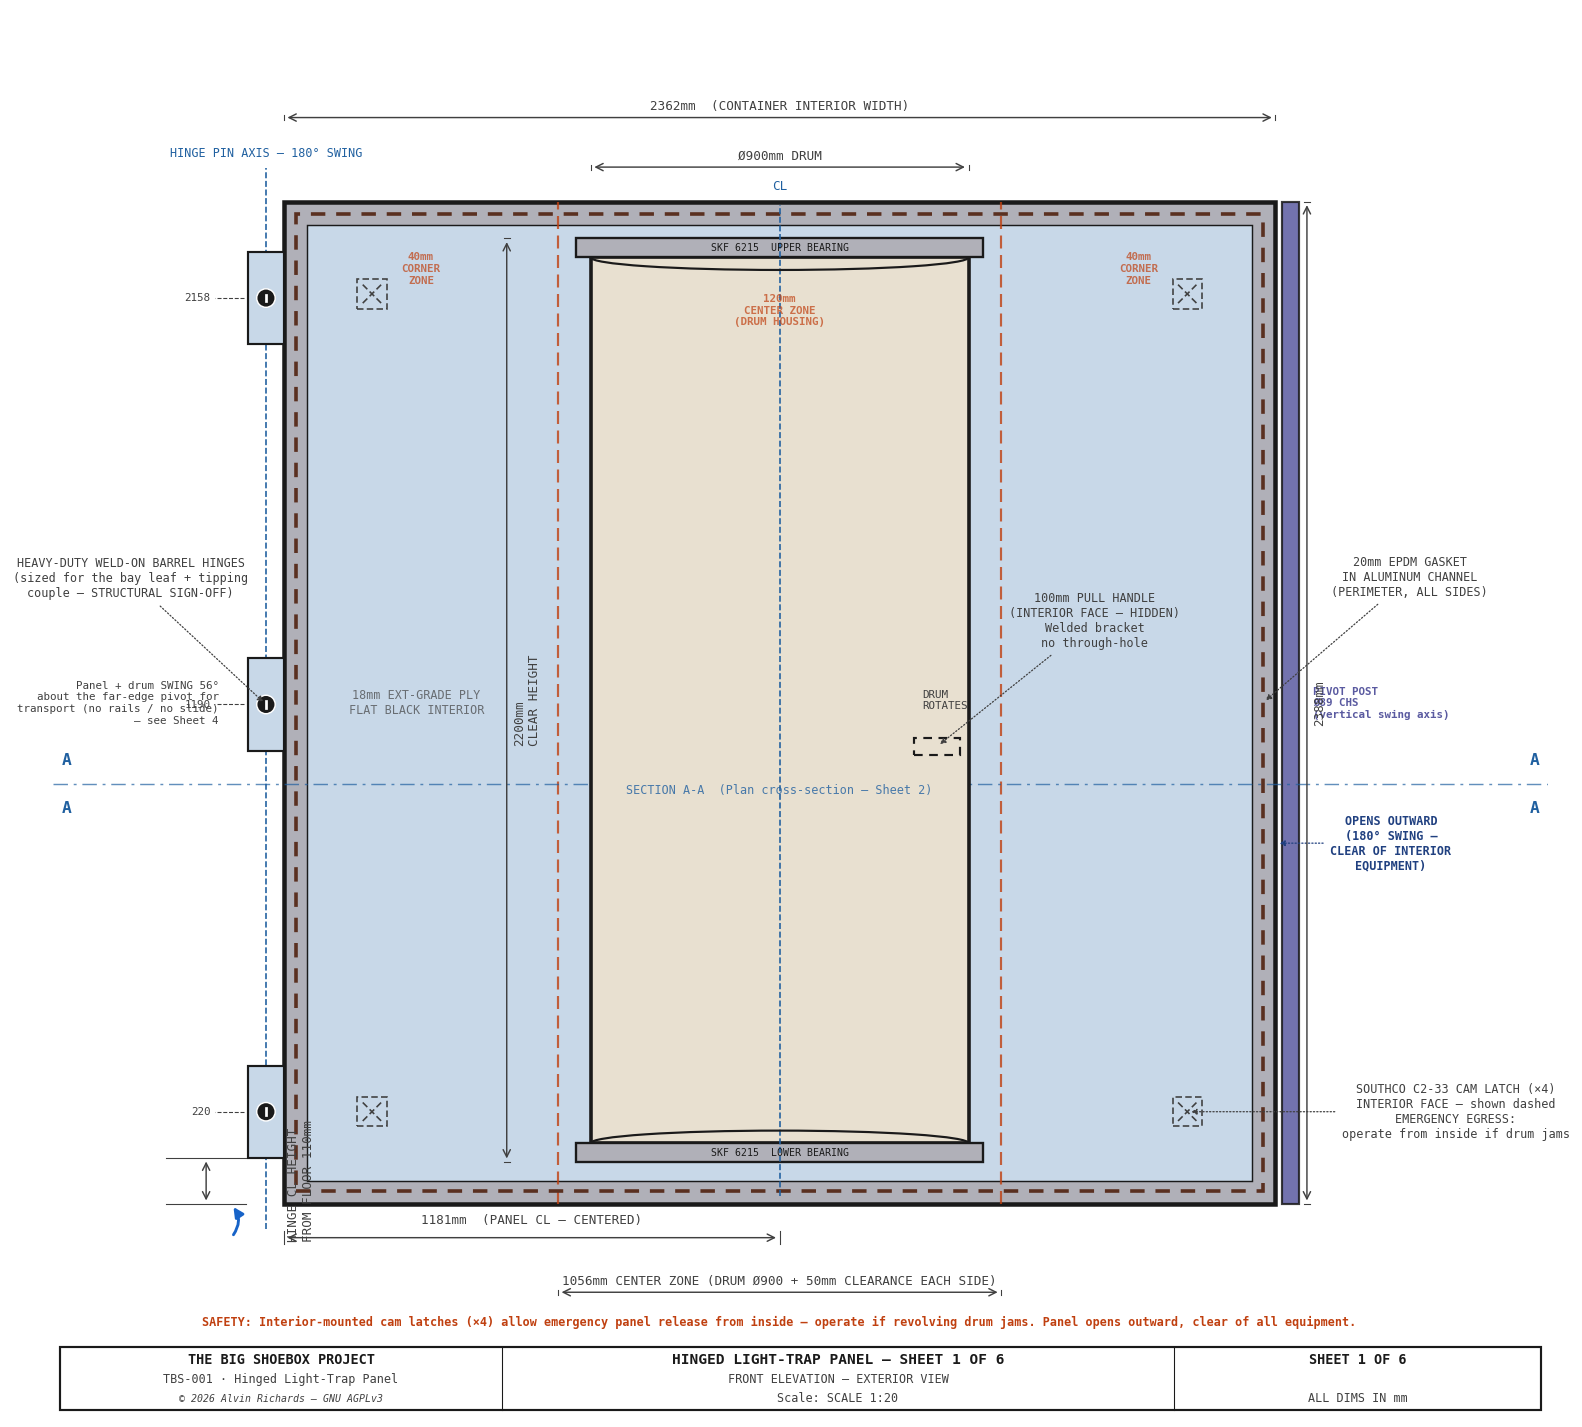
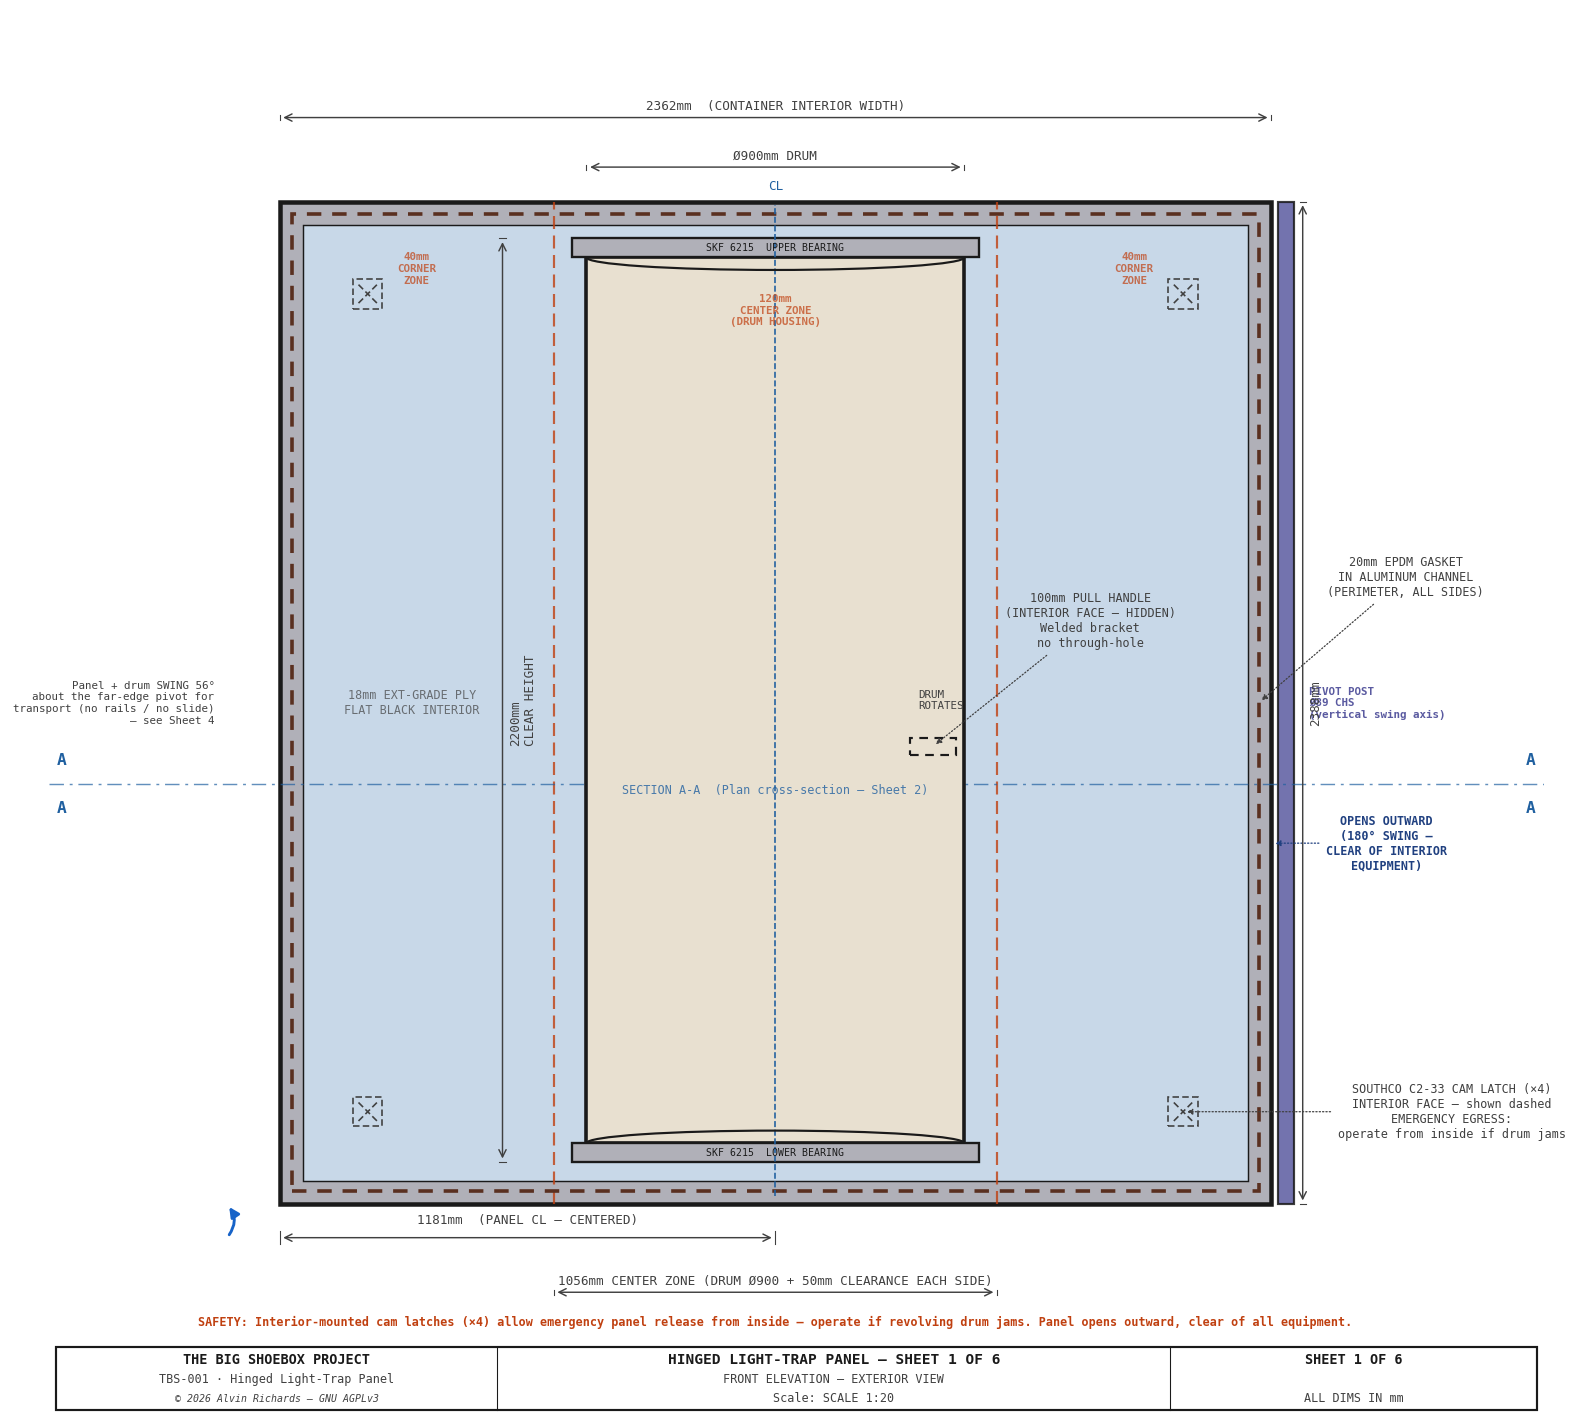
Cascade Stage 2 (hingepanel): sheets 1-3 slide->swing
Sheet 1: retire the barrel hinges (geometry + dims) — panel pivots on the post. Sheet 2:
the right-edge slide guide rail -> the Ø89 pivot post (recolored + relabeled); near edge
relabeled 'swings free'. Sheet 3: the HGR20 floor/ceiling slide rails + slide-travel arrow
-> retired/swing notes; 'release to slide'->'release to swing'; 'hangs below ceiling rails'
-> 'carried by the pivot post'. Sheet 6 (transport-slide-clearance) still to repurpose.

diff --git a/src/generators/generate_hingepanel_diagram.py b/src/generators/generate_hingepanel_diagram.py
@@ -198,27 +198,11 @@ def sheet1():
     leader(ax, (hx_handle + HW / 2, HY), (DX + DRUM_D + 300, HY + 300),
            "100mm PULL HANDLE\n(INTERIOR FACE — HIDDEN)\nWelded bracket\nno through-hole")
 
-    # ── Hinges (3 × left edge from exterior view) ────────────────────────────
+    # ── (rev10: the left-edge barrel hinges are RETIRED — the panel pivots on the
+    #    Ø89 post at the FAR edge, not on left-edge hinges. The HINGE_* values are kept
+    #    only as left-edge layout references for the swing note + dimension positions.) ──
     HINGE_YS = [220, 1190, PH - 230]
     HINGE_W = 85; HINGE_L = 220
-    for hy in HINGE_YS:
-        # Hinge leaf (exterior face)
-        ax.add_patch(Rectangle((-HINGE_W, hy - HINGE_L // 2), HINGE_W, HINGE_L,
-                                fc=C_ALUM, ec=C_OUT, lw=1.2, zorder=6))
-        ax.add_patch(Circle((-HINGE_W / 2, hy), 22, fc=C_OUT, ec=BG, lw=0.8, zorder=7))
-        # Extension line to hinge pin axis
-        ax.plot([-HINGE_W / 2, -HINGE_W / 2], [hy - 8, hy + 8],
-                color=BG, lw=1.5, zorder=8)
-
-    # Hinge pin axis line
-    ax.plot([-HINGE_W / 2, -HINGE_W / 2], [-60, PH + 80],
-            color=C_CL, lw=0.9, ls="--", zorder=4)
-    ax.text(-HINGE_W / 2, PH + 100, "HINGE PIN AXIS — 180° SWING",
-            color=C_CL, fontsize=6.5, ha="center", va="bottom", **FONT, zorder=15)
-
-    leader(ax, (-HINGE_W / 2, HINGE_YS[1]),
-           (-HINGE_W - 280, HINGE_YS[1] + 300),
-           "HEAVY-DUTY WELD-ON BARREL HINGES\n(sized for the bay leaf + tipping\ncouple — STRUCTURAL SIGN-OFF)")
 
     # ── Sliding carriage system ─────────────────────────────────────────────
     # The entire panel slides 300mm in the X direction (into the container)
@@ -315,14 +299,7 @@ def sheet1():
     dim_v(ax, DX - 200, DY_BOT, DY_TOP, f"{DRUM_H}mm\nCLEAR HEIGHT", offset=25)
     # Drum center from left
     dim_h(ax, 0, DRUM_CX, DY_BOT - 180, f"{int(DRUM_CX)}mm  (PANEL CL — CENTERED)", offset=-50)
-    # Hinge positions from floor
-    for hy in HINGE_YS:
-        ax.plot([-HINGE_W - 10, -HINGE_W - 80], [hy, hy],
-                color=C_DIM, lw=0.6, ls="--", zorder=3)
-        ax.text(-HINGE_W - 90, hy, f"{hy}", color=C_DIM, fontsize=6,
-                ha="right", va="center", **FONT, zorder=15)
-    hinge_2_flr = round(HINGE_YS[0] - HINGE_L/2)
-    dim_v(ax, -HINGE_W - 100, hinge_2_flr, HINGE_YS[0] - HINGE_L, f"HINGE CL HEIGHT\nFROM FLOOR {hinge_2_flr}mm", offset=-320)
+    # (hinge-position dims retired with the barrel hinges — the panel pivots on the post.)
 
 #     ax.text(-HINGE_W - 80, 90, "HINGE CL HEIGHT\nFROM FLOOR (mm)",
 #             color=C_DIM, fontsize=6, ha="right", va="top", **FONT, zorder=15)
@@ -555,15 +532,15 @@ def sheet2():
 
     leader(ax, (rail_left_x + RAIL_W / 2, Y0_W + WALL_T / 2),
            (rail_left_x - 200, Y_LO + 160),
-           "HGR20 RAIL\n(FLOOR/CEILING)\n500mm X-TRAVEL", col=C_RAIL, fs=6)
+           "NEAR EDGE — swings free\n(rev10: no slide rail;\npanel pivots at the far edge)", col=C_DIM, fs=6)
     leader(ax, (rail_left_x + CBEAM / 2, Y0_PL + CORNER_T / 2),
            (rail_left_x - 200, Y_HI - 80),
            "CARRIAGE BEAM\n60×60mm SHS\n+ BRUSH SEAL", col=C_CARR, fs=6)
 
-    # RIGHT SIDE — guide rail + carriage blocks (no separate beam)
+    # RIGHT (far) edge — the vertical PIVOT POST (rev10: replaces the slide guide rail)
     rail_right_x = PW + 60
     ax.add_patch(Rectangle((rail_right_x, -20), RAIL_W, WALL_T + PT + 40,
-                            fc=C_RAIL, ec=C_OUT, lw=0.8, alpha=0.6, zorder=5))
+                            fc="#5A5AA0", ec=C_OUT, lw=0.8, alpha=0.85, zorder=5))
     # Brush seal strip (right slot)
     ax.add_patch(Rectangle((PW - brush_w, Y0_W), brush_w, Y1_PL2 - Y0_W,
                             fc="#806040", ec=C_OUT, lw=0.5, zorder=6, alpha=0.8))
@@ -572,7 +549,7 @@ def sheet2():
 
     leader(ax, (rail_right_x + RAIL_W / 2, Y0_W + WALL_T / 2),
            (rail_right_x + 200, Y_LO + 160),
-           "HGR20 RAIL\n(FLOOR/CEILING)\n500mm X-TRAVEL", col=C_RAIL, fs=6)
+           "PIVOT POST Ø89 CHS\n(vertical swing axis —\nno slide rail)", col="#5A5AA0", fs=6)
     leader(ax, (PW + brush_w / 2, Y0_PL + PT / 2),
            (rail_right_x + 200, Y_HI - 80),
            "GUIDE SLOT\n+ BRUSH SEAL\n(DOUBLED NYLON)", col=C_CARR, fs=6)
@@ -942,24 +919,18 @@ def sheet3():
                                 RAIL_BLOCK_L, RAIL_BLOCK_H,
                                 fc=C_RAIL_S3, ec=C_OUT, lw=0.6, alpha=0.4, zorder=4))
 
-    # Rail labels — placed well clear of dimension lines below
+    # Rail labels (rev10: the floor/ceiling HGR20 slide rails are RETIRED — the panel
+    # pivots on the Ø89 post; the rail profiles above are shown faint as the old route).
     leader(ax, (RAIL_FLOOR_X + RAIL_PROF_L, RAIL_FLOOR_Y + RAIL_PROF_H / 2),
            (RAIL_FLOOR_X + RAIL_PROF_L + 200, RAIL_FLOOR_Y - 130),
-           "HGR20 FLOOR RAIL\n(BOTH WALLS, 500mm)",
-           col=C_RAIL_S3, fs=5.5)
-    leader(ax, (RAIL_FLOOR_X + RAIL_PROF_L, H_CEILING - RAIL_PROF_H / 2),
-           (RAIL_FLOOR_X + RAIL_PROF_L + 130, H_CEILING + 50),
-           "HGR20 CEILING RAIL\n(BOTH WALLS, 500mm)",
-           col=C_RAIL_S3, fs=5.5)
+           "(former HGR20 slide rails —\nRETIRED; panel now SWINGS\nabout the Ø89 pivot post)",
+           col=C_DIM, fs=5.5)
 
-    # Slide travel arrow (below overhang dimensions, clear of title block)
+    # Swing note (replaces the old slide-travel arrow)
     ARROW_Y = RAIL_FLOOR_Y - 160
-    ax.annotate("", xy=(Y0_W, ARROW_Y), xytext=(Y0_W + SLIDE_TRAVEL, ARROW_Y),
-                arrowprops=dict(arrowstyle="<->", color=C_RAIL_S3, lw=1.0,
-                                mutation_scale=8), zorder=9)
-    ax.text(Y0_W + SLIDE_TRAVEL / 2, ARROW_Y - 15,
-            f"{SLIDE_TRAVEL}mm SLIDE TRAVEL", ha="center", va="top",
-            fontsize=5.5, color=C_RAIL_S3, **FONT, zorder=15)
+    ax.text(Y0_W + 300, ARROW_Y - 15, "PANEL SWINGS 56° ABOUT THE PIVOT (no slide) — see Sheet 4",
+            ha="center", va="top", fontsize=5.5, color="#1763C8",
+            fontweight="bold", **FONT, zorder=15)
 
     # ── Lower bearing housing ─────────────────────────────────────────────────
     ax.add_patch(plt.Rectangle((D_DEPTH_L - 35, H_BRG_BOT),
@@ -1186,7 +1157,7 @@ def sheet3():
                     arrowprops=dict(arrowstyle="-", color=C_DIM, lw=0.8,
                                     shrinkA=1, shrinkB=1), zorder=24)
         ax.text(tx, ty, text, fontsize=6.0, color=C_DIM, ha="left", va="center", **FONT)
-    dlbl((DX(20), DY(165)), DY(172), "Cam latch compresses panel\nonto seal (release to slide)")
+    dlbl((DX(20), DY(165)), DY(172), "Cam latch compresses panel\nonto seal (release to swing)")
     dlbl((DX(20), DY(120)), DY(138), "Panel bottom edge\n(40 mm corner zone)")
     dlbl((DX(-10), DY(100)), DY(108), "20 mm EPDM — panel\nrecedes into / seals on lip")
     dlbl((DX(-26), DY(64)), DY(74), "Frame seal lip — steel upstand\nfrom threshold (notched at drum)")
@@ -1251,7 +1222,7 @@ def sheet3():
                     arrowprops=dict(arrowstyle="-", color=C_DIM, lw=0.8,
                                     shrinkA=1, shrinkB=1), zorder=24)
         ax.text(tx, ty, text, fontsize=6.0, color=C_DIM, ha="left", va="center", **FONT)
-    clbl((CX(30), CY(55)), CY(96), "Panel hangs below the ceiling\nrails — this gap is the light path")
+    clbl((CX(30), CY(55)), CY(96), "Panel top gap is the light path\n(carried by the pivot post — not ceiling-hung)")
     clbl((CX(-40), CY(64)), CY(62), "Frame top rail (50×50 RHS)")
     clbl((CX(-26), CY(30)), CY(28), "Top seal lip — steel downstand,\nfull width (continuous, meets at center)")
     clbl((CX(-10), CY(-20)), CY(-10), "20 mm EPDM — panel top\nedge seals on lip")
